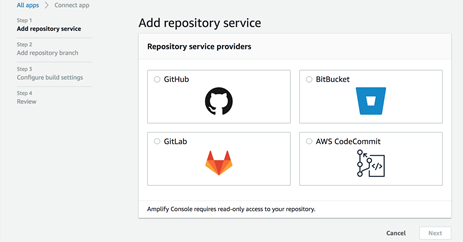
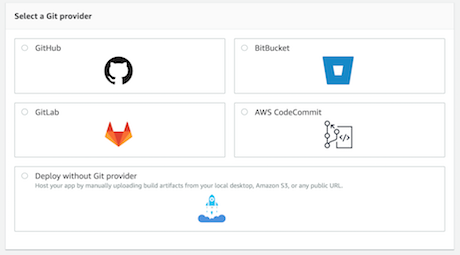
mannual deploys

diff --git a/doc_source/manual-deploys.rst b/doc_source/manual-deploys.rst
@@ -1,0 +1,24 @@
+.. _manual-deploys:
+
+###############
+Manual Deploys
+###############
+
+Manual deploys allows you to publish your web app to the Amplify Console without connecting a Git provider. You can choose to drag and drop a folder from your desktop, or reference an Amazon S3 bucket or external URL. 
+
+Drag and Drop
+==========================
+
+Drag and drop a folder from your desktop to host your site in seconds. Log in to the `Amplify Console <https://console.aws.amazon.com/amplify/home>`__ and choose **Deploy without a Git provider**. Give your app a name, and a name for the environment (e.g. development or production). Drag and drop files from your desktop to publish your web app.
+
+.. image:: images/manual-deploys.gif
+
+Amazon S3 or any URL
+==========================
+
+Reference assets that are uploaded to an Amazon S3 bucket, or provide a public URL to files stored elswhere. 
+
+For Amazon S3, choose the bucket and zip file to deploy your site. You can also set up AWS Lambda triggers so your site is updated everytime new assets are uploaded. `This blog post <https://aws.amazon.com/blogs/mobile/deploy-files-stored-on-amazon-simple-storage-service-amazon-s3-dropbox-or-your-desktop-to-host-a-static-web-app-in-seconds-on-the-aws-amplify-console/>`__ walks through setting up a Lambda trigger to automatically deploy changes to Amplify on any updates to a bucket.
+
+.. image:: images/manual-deploys-s3.png
+

diff --git a/doc_source/getting-started.rst b/doc_source/getting-started.rst
@@ -14,7 +14,7 @@ To get started, log in to the `Amplify Console <https://console.aws.amazon.com/a
 Step 1: Connect Repository
 ==========================
 
-Connect your GitHub, Bitbucket, GitLab, or AWS CodeCommit repositories. After you authorize the Amplify Console, Amplify fetches an access token from the repository provider, but it *doesn't store the token* on the AWS servers. Amplify accesses your repository using deploy keys installed in a specific repository only. 
+Connect your GitHub, Bitbucket, GitLab, or AWS CodeCommit repositories. You also have the option of manually uploading your build artifacts without connecting a Git repository (see :ref:`Manual Deploys <manual-deploys>`). After you authorize the Amplify Console, Amplify fetches an access token from the repository provider, but it *doesn't store the token* on the AWS servers. Amplify accesses your repository using deploy keys installed in a specific repository only. 
 
 .. image:: images/amplify-gettingstarted-2.png
 

diff --git a/doc_source/index.rst b/doc_source/index.rst
@@ -25,6 +25,7 @@ AWS Amplify Console User Guide
    Configuring Build Settings <build-settings>
    Deploying Fullstack Serverless Web Apps <deploy-backend>
    Feature Branch Deployments <multi-environments>
+   Manual Deploys <manual-deploys>
    One-click Deploy Button <one-click>
    Using Redirects <redirects>
    Restricting Access <access-control>
